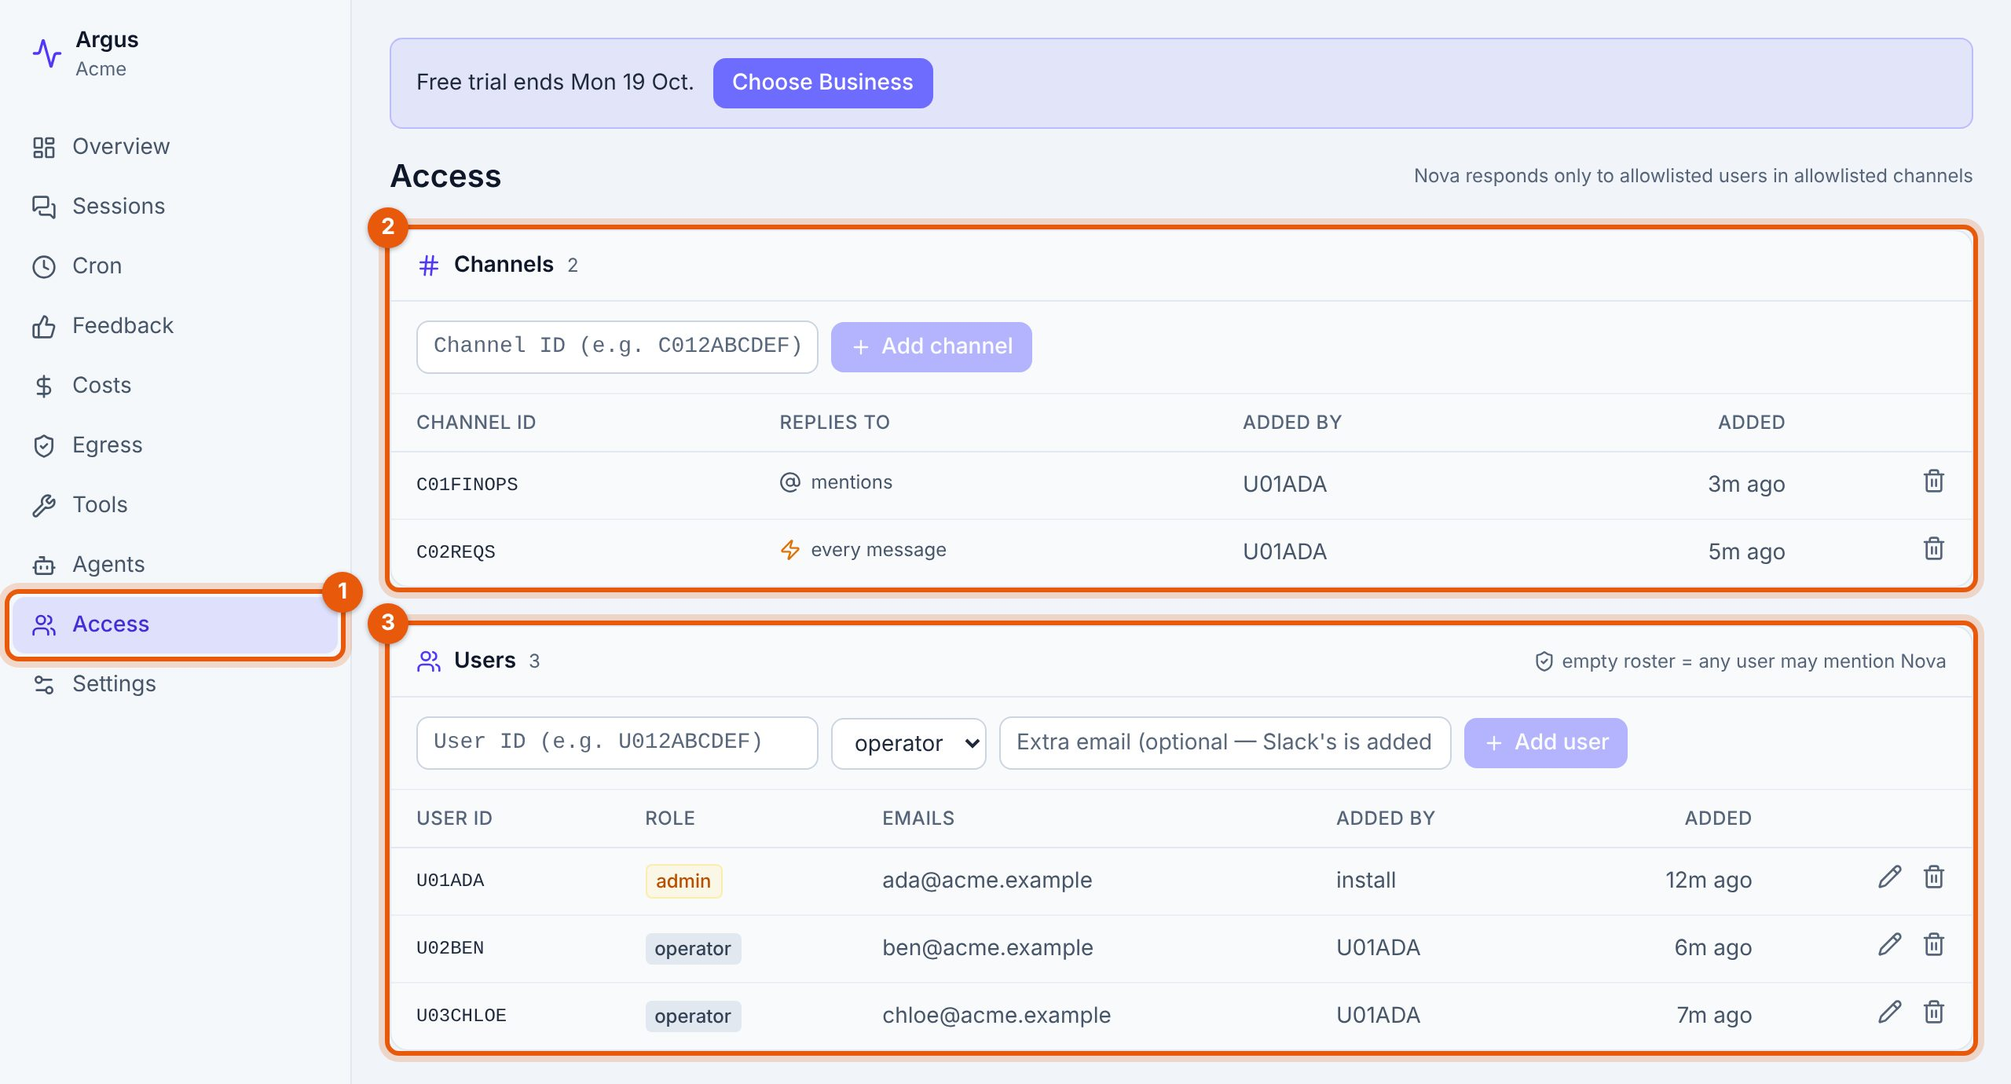
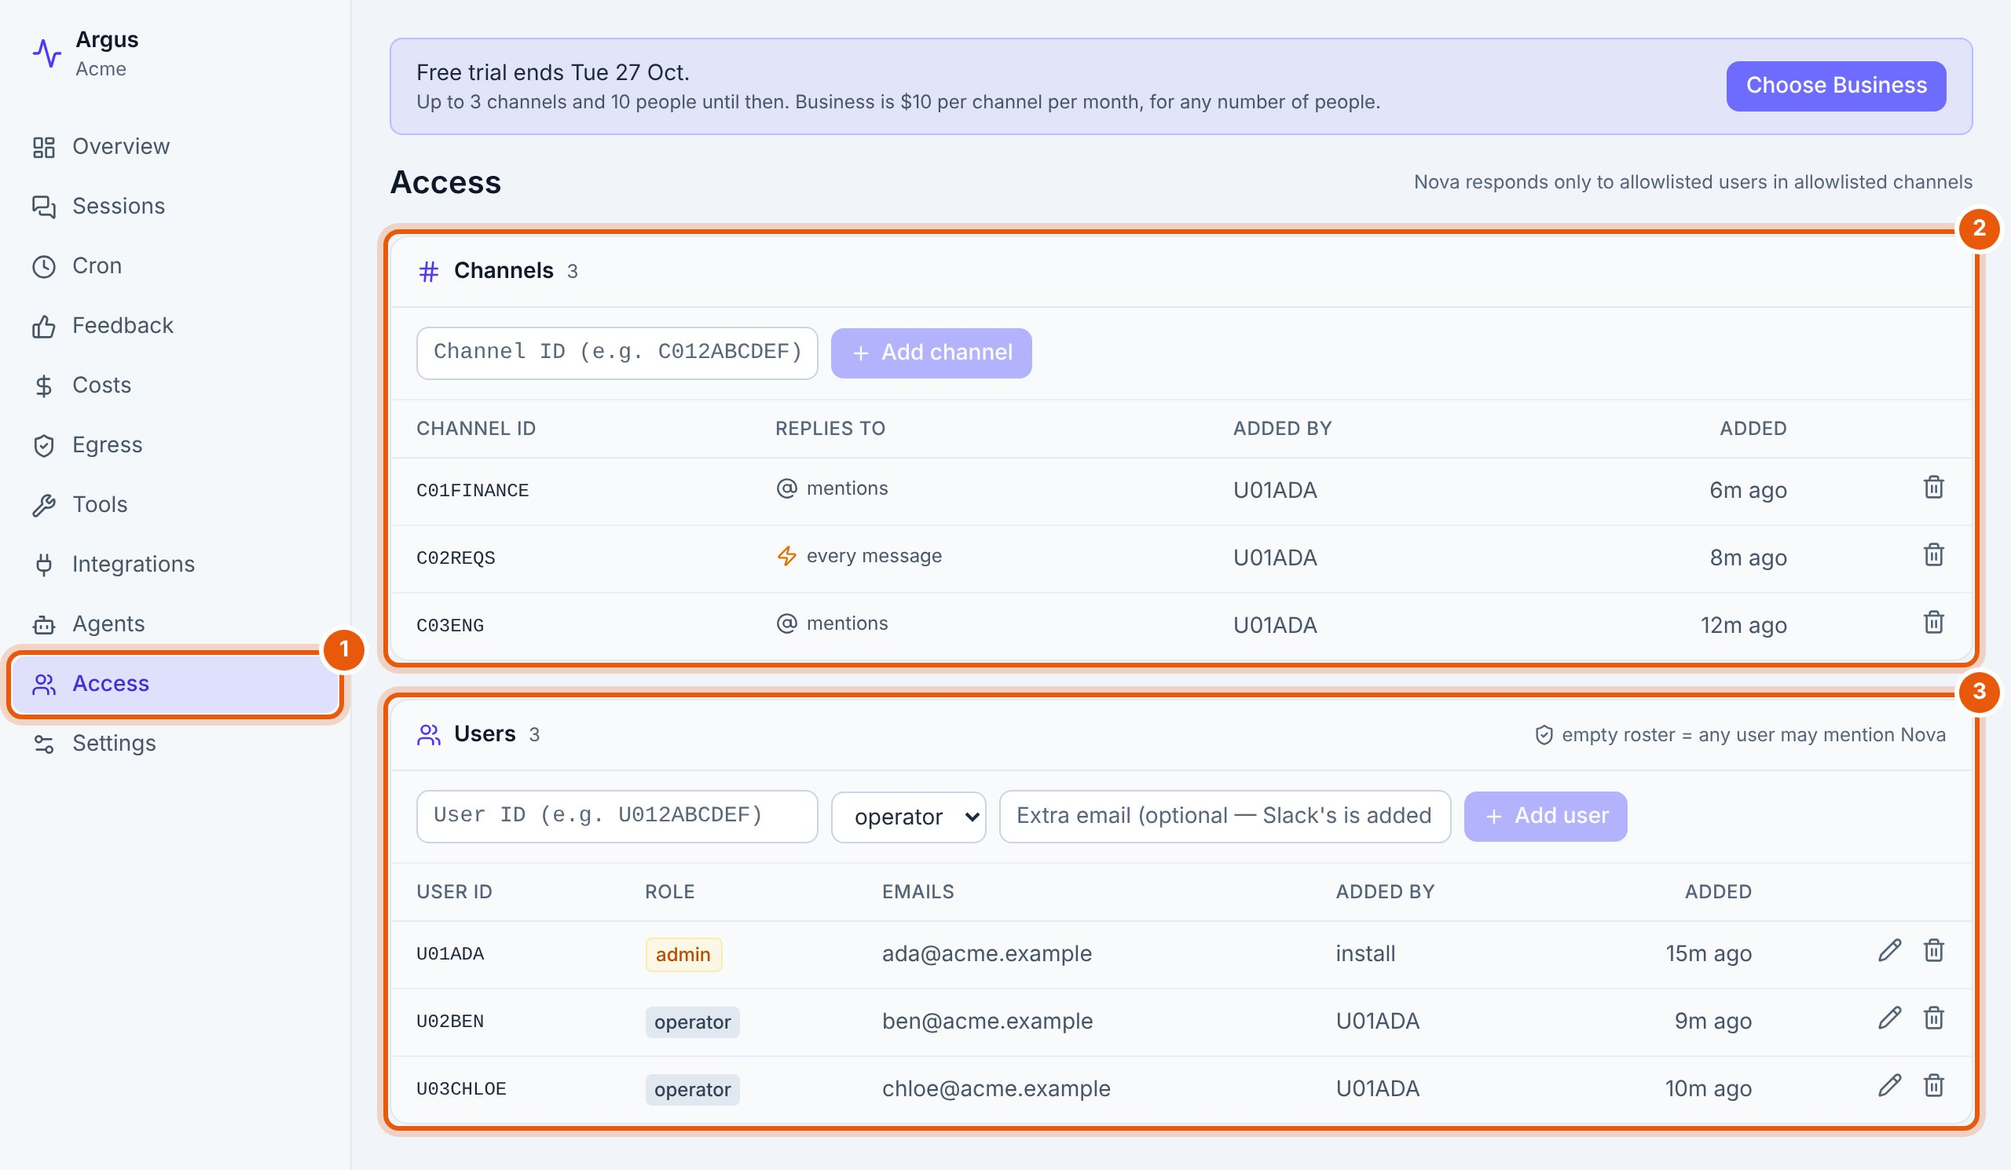
Publish site from nova-marketing@f79f33c

diff --git a/public/get-started.html b/public/get-started.html
@@ -96,6 +96,7 @@ figure.shot figcaption{font-size:13.5px;color:var(--ink-faint);margin-top:8px}
 .shots{display:grid;gap:14px;grid-template-columns:1fr;margin:4px 0 22px}
 @media(min-width:620px){.shots{grid-template-columns:1fr 1fr}}
 .shots figure.shot{margin:0}
+figure.shot.narrow{max-width:380px}
 @media(max-width:520px){.top .btn{padding:8px 12px;font-size:13.5px}}
 
 
@@ -189,6 +190,7 @@ footer.sitefoot{padding:56px 0 40px;background:var(--paper-2);border-top:1px sol
       <li><a href="#channel">Bring Nova into a channel</a></li>
       <li><a href="#people">Add your team</a></li>
       <li><a href="#first">Give her real work</a></li>
+      <li><a href="#drive">Connect Google Drive</a></li>
       <li><a href="#trial">Your free trial</a></li>
       <li><a href="#pay">Plans and paying</a></li>
       <li><a href="#cancel">Changing or cancelling</a></li>
@@ -207,14 +209,14 @@ footer.sitefoot{padding:56px 0 40px;background:var(--paper-2);border-top:1px sol
   <h2 id="install"><span class="n">02</span>Add Nova to Slack</h2>
   <p>Open <a href="https://control.mouline.co.uk/install">control.mouline.co.uk/install</a>, click <b>Add to Slack</b> and approve the permissions Slack shows you. Whoever completes the install becomes the workspace's first Nova admin. Enterprise Grid org-wide installs aren't supported; install into one workspace.</p>
   <div class="shots">
-  <figure class="shot"><a href="guide/install.jpg"><img src="guide/install.jpg" width="600" height="420" loading="lazy" alt="The install page: Add Nova to your Slack workspace, with an Add to Slack button."></a><figcaption>The install page. Click <b>Add to Slack</b> (1) and approve in Slack.</figcaption></figure>
-  <figure class="shot"><a href="guide/install-done.jpg"><img src="guide/install-done.jpg" width="600" height="480" loading="lazy" alt="After installing: Nova is installed in Acme, with the two steps left and a Sign in and finish setup button."></a><figcaption>Back from Slack. <b>Sign in and finish setup</b> (1) takes you to the next step.</figcaption></figure>
+  <figure class="shot"><a href="guide/install.jpg"><img src="guide/install.jpg" width="488" height="402" loading="lazy" alt="The install page: Add Nova to your Slack workspace, with an Add to Slack button."></a><figcaption>The install page. Click <b>Add to Slack</b> (1) and approve in Slack.</figcaption></figure>
+  <figure class="shot"><a href="guide/install-done.jpg"><img src="guide/install-done.jpg" width="488" height="586" loading="lazy" alt="After installing: Nova is installed in Acme, with the three steps left and a Sign in and finish setup button."></a><figcaption>Back from Slack. <b>Sign in and finish setup</b> (1) takes you to the next step.</figcaption></figure>
   </div>
 
   <h2 id="key"><span class="n">03</span>Add your Anthropic key</h2>
   <p>Sign in with Slack at <a href="https://control.mouline.co.uk/login?return=%2Fsettings">control.mouline.co.uk</a>. This is Nova's dashboard, and it shows only your workspace. Open <b>Settings</b>, paste your key under <b>Anthropic API key</b> and save.</p>
   <p>Until a key is saved, Nova answers every mention with a link to Settings and does no work.</p>
-  <figure class="shot"><a href="guide/settings-key.jpg"><img src="guide/settings-key.jpg" width="912" height="830" loading="lazy" alt="Nova's dashboard, Settings page: a Finish setup notice, and the Anthropic API key field being filled in under LLM credentials."></a><figcaption>Open <b>Settings</b> (1), paste your key into <b>Anthropic API key</b> (2) and click <b>Save settings</b> (3). The orange notice goes away once the key is saved.</figcaption></figure>
+  <figure class="shot"><a href="guide/settings-key.jpg"><img src="guide/settings-key.jpg" width="920" height="830" loading="lazy" alt="Nova's dashboard, Settings page: a Finish setup notice, and the Anthropic API key field being filled in under LLM credentials."></a><figcaption>Open <b>Settings</b> (1), paste your key into <b>Anthropic API key</b> (2) and click <b>Save settings</b> (3). The orange notice goes away once the key is saved.</figcaption></figure>
 
   <h2 id="channel"><span class="n">04</span>Bring Nova into a channel</h2>
   <p>In the Slack channel where you want Nova to work:</p>
@@ -227,13 +229,57 @@ footer.sitefoot{padding:56px 0 40px;background:var(--paper-2);border-top:1px sol
 
   <h2 id="people"><span class="n">05</span>Add your team</h2>
   <p>Nova only answers people you've allowed. Add someone with <code>/nova user add @name</code> in Slack, or on the dashboard's <b>Access</b> page. During the trial up to 10 people can use Nova, admins included. On Business, there's no limit.</p>
-  <figure class="shot"><a href="guide/access.jpg"><img src="guide/access.jpg" width="1280" height="690" loading="lazy" alt="The dashboard's Access page: two channels, one answering mentions and one every message, and three people, one admin and two operators."></a><figcaption><b>Access</b> (1) lists the channels Nova works in (2) and the people she answers (3). You can add and remove both here too.</figcaption></figure>
+  <figure class="shot"><a href="guide/access.jpg"><img src="guide/access.jpg" width="1280" height="745" loading="lazy" alt="The dashboard's Access page: three channels, two answering mentions and one every message, and three people, one admin and two operators."></a><figcaption><b>Access</b> (1) lists the channels Nova works in (2) and the people she answers (3). You can add and remove both here too.</figcaption></figure>
 
   <h2 id="first"><span class="n">06</span>Give her real work</h2>
   <p>Mention <code>@Nova</code> in a thread and ask for a task your team does every week. Each Slack thread is one ongoing conversation, so reply in the same thread to follow up or correct her. A person reviews anything consequential before it happens.</p>
-  <p>The dashboard shows what Nova did in each conversation and what it cost, and lets admins manage access, egress rules, scheduled jobs and settings.</p>
+  <p>The dashboard shows what Nova did in each conversation and what it cost, and lets admins manage access, integrations, egress rules, scheduled jobs and settings.</p>
 
-  <h2 id="trial"><span class="n">07</span>Your free trial</h2>
+  <h2 id="drive"><span class="n">07</span>Connect Google Drive</h2>
+  <p>Optional, and worth a few trial days. With Drive connected, Nova finds, reads and edits your Docs, Sheets and Slides, creates and copies files, organises folders, and shares files with people in your company. In Sheets she changes only the cells she means to, appends rows, adds tabs and formats them, without rewriting the rest. You decide, channel by channel, which shared drives she may use.</p>
+
+  <h3>Turn on the Shadow Broker</h3>
+  <p>Nova reaches Drive through a Shadow Broker, which holds the Google credentials so Nova never sees them. In <b>Settings</b>, under <b>Shadow Broker</b>, choose <b>Run by Mouline</b> and save. Mouline then runs a broker for your workspace alone. There's nothing to install and no key to copy.</p>
+  <figure class="shot"><a href="guide/broker.jpg"><img src="guide/broker.jpg" width="680" height="330" loading="lazy" alt="Settings, Shadow Broker section: the Broker list set to Run by Mouline, and the Save settings button."></a><figcaption>Choose <b>Run by Mouline</b> (1) and click <b>Save settings</b> (2).</figcaption></figure>
+
+  <h3>Connect your Google account</h3>
+  <p>Open <b>Integrations</b> and click <b>Connect Google Drive</b>. Google asks you to sign in and approve access; Nova then acts as that Google account, so she sees what it sees. You come back to the Google Drive page, where Nova can use all of Drive in every channel until you narrow it.</p>
+  <figure class="shot"><a href="guide/drive-connect.jpg"><img src="guide/drive-connect.jpg" width="1280" height="560" loading="lazy" alt="The Integrations page before connecting: a Google Drive card marked Not connected, with a Connect Google Drive button."></a><figcaption>Open <b>Integrations</b> (1) and click <b>Connect Google Drive</b> (2).</figcaption></figure>
+  <figure class="shot"><a href="guide/drive-connected.jpg"><img src="guide/drive-connected.jpg" width="930" height="350" loading="lazy" alt="Back from Google: Google Drive is connected, Working, and Nova can use All of Drive everywhere, with a Choose where button."></a><figcaption>Back from Google. <b>Choose where</b> (1) sets what Nova may use everywhere.</figcaption></figure>
+  <p>If you'd rather hand over a few folders only, open <a href="https://control.mouline.co.uk/integrations/google-drive">the Google Drive page</a> before connecting and click <b>Pick folders instead</b>. Nova then reaches just the folders you pick in Google's picker and the files she creates, everywhere. Channel rules need the whole-Drive connection.</p>
+
+  <h3>Choose where Nova can use Drive</h3>
+  <p>Drive access is set by rules, each written as a sentence on the Google Drive page:</p>
+  <ul>
+    <li><b>Everywhere</b> applies to every channel without a rule of its own: <b>All of Drive</b>, <b>Only some shared drives</b>, or <b>Nowhere</b>.</li>
+    <li>A <b>channel rule</b> covers one or more channels. Click <b>+ Add a rule for specific channels</b>, add the channels, and choose all of Drive or some shared drives. You can add a note for Nova too, such as where budgets live.</li>
+  </ul>
+  <p>The most specific rule wins: a channel's own rule <b>replaces</b> Everywhere there, so a channel can get less than Everywhere or more. If two rules name the same channel, Nova gets everything either one allows, and the page marks a rule that adds nothing as <b>Changes nothing</b>. Before you save, the rule shows what Nova will reach after saving.</p>
+  <p>For example, with Everywhere set to Only Company and a #finance rule for Finance and Company, Nova in #finance can use both drives and nothing else.</p>
+  <figure class="shot narrow"><a href="guide/drive-rule.jpg"><img src="guide/drive-rule.jpg" width="480" height="720" loading="lazy" alt="New channel rule: In #requests Nova can use Google Drive: Only some shared drives, with Sales ticked. After saving: In #requests Nova can reach Only Sales; this replaces Everywhere (Only Company)."></a><figcaption>A new rule: pick the channel (1), choose <b>Only some shared drives</b> and tick them (2), and check <b>After saving</b> (3) before you click <b>Save rule</b>.</figcaption></figure>
+
+  <h3>See who can reach what</h3>
+  <p>The Integrations page lists every channel with what Nova can reach there. Grey means the channel gets it from Everywhere; black means its own rule decides. Click a channel to see why, or click its Drive cell to change its rule.</p>
+  <figure class="shot"><a href="guide/drive-reach.jpg"><img src="guide/drive-reach.jpg" width="1050" height="610" loading="lazy" alt="Who can reach what: Everywhere gets Only Company; #engineering All of Drive, #finance Only Finance and Company, and #requests Only Sales, each replacing Everywhere."></a><figcaption>Everywhere is held to the Company drive (1). #engineering's own rule gives it more: all of Drive (2). The #requests rule from above gives it less: only Sales, not Company (3).</figcaption></figure>
+
+  <h3>Check it's working</h3>
+  <p>Drive has one status on both pages. <b>Working</b> means Nova can use it. <b>Needs attention</b> and <b>Not working</b> come with a banner saying what's wrong and, where the dashboard can fix it, a button. The <b>Health</b> list on the Google Drive page shows each check:</p>
+  <table>
+    <tr><th>Check</th><th>If it fails</th></tr>
+    <tr><td>Nova has loaded the connection</td><td>Nova picks changes up within a minute. If it stays, write to us. Meanwhile Nova tells people Drive is temporarily unavailable.</td></tr>
+    <tr><td>Network access to Google</td><td>Your egress policy doesn't allow all four Google hosts Drive needs. Click <b>Allow Google hosts</b>, or remove the deny rule under <b>Open network policy</b>.</td></tr>
+    <tr><td>Used in at least one channel</td><td>No rule gives Nova Drive anywhere. Click <b>Add a rule</b>, or set Everywhere.</td></tr>
+  </table>
+  <figure class="shot"><a href="guide/drive-health.jpg"><img src="guide/drive-health.jpg" width="930" height="748" loading="lazy" alt="Google Drive marked Needs attention: two Google hosts are not allowed. A banner offers Allow Google hosts, and the Health list shows which hosts are missing."></a><figcaption>Here two Google hosts aren't allowed. <b>Allow Google hosts</b> (1) fixes it; <b>Health</b> (2) shows each check, and <b>Details</b> lists the hosts.</figcaption></figure>
+
+  <h3>Sharing, reconnecting and disconnecting</h3>
+  <ul>
+    <li>Nova shares files only with people in your own Google Workspace domain, and refuses anyone outside it.</li>
+    <li><b>Reconnect</b> on the Google Drive page signs in to Google again, for example to use another account.</li>
+    <li><b>Disconnect</b> stops Nova using Drive in every channel at once. Your rules are kept. If Everywhere was set to Nowhere, it comes back as All of Drive when you reconnect, so set it again afterwards.</li>
+  </ul>
+
+  <h2 id="trial"><span class="n">08</span>Your free trial</h2>
   <p>Every new workspace gets a <b>7-day free trial</b>. It starts the first time Nova answers someone, not when you install, so setup doesn't use it up.</p>
   <ul>
     <li>Up to <b>3 channels</b> and <b>10 people</b> during the trial. Going over is refused with a message naming the limit; removing one frees a slot.</li>
@@ -244,16 +290,18 @@ footer.sitefoot{padding:56px 0 40px;background:var(--paper-2);border-top:1px sol
   <p>Trying more of Nova extends the trial, by up to 30 extra working days (Monday to Friday) in total. Each counts once:</p>
   <table>
     <tr><th>Do this</th><th>Earn</th></tr>
-    <tr><td>Save a Shadow Broker connection in Settings</td><td>+3 working days</td></tr>
+    <tr><td>Save a Shadow Broker connection in Settings, such as <a href="#drive">Run by Mouline</a></td><td>+3 working days</td></tr>
     <tr><td>Add your first egress allow rule on the dashboard</td><td>+3 working days</td></tr>
     <tr><td>Have your first scheduled job run successfully</td><td>+3 working days</td></tr>
+    <tr><td><a href="#drive">Connect Google Drive</a> in Integrations</td><td>+3 working days</td></tr>
+    <tr><td>Have Nova edit a Google Sheet for the first time</td><td>+2 working days</td></tr>
     <tr><td>Each new person who gets an answer from Nova</td><td>+2 working days</td></tr>
   </table>
   <p>The first person's answer starts the trial, so it doesn't earn days. Days earned before the trial starts still count.</p>
   <h3>When the trial ends</h3>
   <p>If you haven't chosen a plan, Nova pauses for everyone in the workspace. The Slack install and your data are kept for 30 days, and admins can still sign in to the dashboard. Choosing Business brings her back straight away. If you need more time, write to <a href="mailto:founders@mouline.work">founders@mouline.work</a>.</p>
 
-  <h2 id="pay"><span class="n">08</span>Plans and paying</h2>
+  <h2 id="pay"><span class="n">09</span>Plans and paying</h2>
   <table>
     <tr><th>Plan</th><th>Price</th><th>What you get</th></tr>
     <tr><td>Free trial</td><td>$0 for 7 days</td><td>3 channels, 10 people, plus any days you earn</td></tr>
@@ -267,10 +315,10 @@ footer.sitefoot{padding:56px 0 40px;background:var(--paper-2);border-top:1px sol
     <li>Click <b>Choose Business</b>. Stripe Checkout opens.</li>
     <li>Pick how many channels Nova can be in, agree to the <a href="terms.html">Terms</a>, and pay by card.</li>
   </ol>
-  <figure class="shot"><a href="guide/settings-trial.jpg"><img src="guide/settings-trial.jpg" width="1040" height="290" loading="lazy" alt="Settings during the trial: a banner with the trial end date and a Choose Business button, and the Plan and billing card showing Trial with a Choose Business button."></a><figcaption><b>Choose Business</b> (1) is on the trial banner and on the <b>Plan and billing</b> card in Settings. Either one opens Stripe Checkout.</figcaption></figure>
+  <figure class="shot"><a href="guide/settings-trial.jpg"><img src="guide/settings-trial.jpg" width="1050" height="365" loading="lazy" alt="Settings during the trial: a banner with the trial end date and a Choose Business button, and the Plan and billing card showing Trial with a Choose Business button."></a><figcaption><b>Choose Business</b> (1) is on the trial banner and on the <b>Plan and billing</b> card in Settings. Either one opens Stripe Checkout.</figcaption></figure>
   <p>You can pay at any time during the trial. The first month is charged at once, the trial ends, and the trial limits lift straight away. Settings then shows your plan and number of channels.</p>
 
-  <h2 id="cancel"><span class="n">09</span>Changing or cancelling</h2>
+  <h2 id="cancel"><span class="n">10</span>Changing or cancelling</h2>
   <p>In Settings, <b>Manage billing</b> opens Stripe's billing portal. There you can:</p>
   <ul>
     <li><b>Add channels.</b> Takes effect at once, charged pro rata for the rest of the month.</li>
@@ -278,10 +326,10 @@ footer.sitefoot{padding:56px 0 40px;background:var(--paper-2);border-top:1px sol
     <li><b>Update your card</b> and download invoices.</li>
     <li><b>Cancel.</b> Nova keeps working until the end of the month you paid for.</li>
   </ul>
-  <figure class="shot"><a href="guide/settings-business.jpg"><img src="guide/settings-business.jpg" width="1040" height="290" loading="lazy" alt="Settings on the Business plan: the Plan and billing card shows Business, 5 channels, with a Manage billing button."></a><figcaption>Once you pay, <b>Plan and billing</b> shows your plan and number of channels. <b>Manage billing</b> (1) opens Stripe.</figcaption></figure>
+  <figure class="shot"><a href="guide/settings-business.jpg"><img src="guide/settings-business.jpg" width="1050" height="330" loading="lazy" alt="Settings on the Business plan: the Plan and billing card shows Business, 5 channels, with a Manage billing button."></a><figcaption>Once you pay, <b>Plan and billing</b> shows your plan and number of channels. <b>Manage billing</b> (1) opens Stripe.</figcaption></figure>
   <p>We don't refund part months; see the <a href="refund.html">refund policy</a>. If a payment fails, Nova pauses and comes back as soon as the payment goes through.</p>
 
-  <h2 id="messages"><span class="n">10</span>If Nova won't answer</h2>
+  <h2 id="messages"><span class="n">11</span>If Nova won't answer</h2>
   <p>Nova always says why. The message tells you what to do:</p>
   <table>
     <tr><th>Nova says</th><th>What to do</th></tr>
@@ -291,9 +339,11 @@ footer.sitefoot{padding:56px 0 40px;background:var(--paper-2);border-top:1px sol
     <tr><td>A trial limit was reached</td><td>Remove a channel or person, or <a href="#pay">choose Business</a> to lift the limits.</td></tr>
     <tr><td>Trial has ended</td><td>An admin <a href="#pay">chooses Business</a> in Settings.</td></tr>
     <tr><td>Nova is paused because this workspace's subscription isn't active</td><td>An admin updates the card under <b>Manage billing</b>.</td></tr>
+    <tr><td>Drive is connected but temporarily unavailable</td><td>Open <b>Integrations</b> → <b>Google Drive</b> and follow the banner. See <a href="#drive">Check it's working</a>.</td></tr>
+    <tr><td>Nova says she has no Drive in this channel</td><td>No rule gives her Drive there. An admin adds a <a href="#drive">channel rule</a> or sets Everywhere.</td></tr>
   </table>
 
-  <h2 id="faq"><span class="n">11</span>Questions</h2>
+  <h2 id="faq"><span class="n">12</span>Questions</h2>
   <details>
     <summary>What does Nova cost in total?</summary>
     <p>Your plan, plus what Anthropic charges for the usage on your own key. Mouline doesn't mark it up.</p>
@@ -309,6 +359,10 @@ footer.sitefoot{padding:56px 0 40px;background:var(--paper-2);border-top:1px sol
   <details>
     <summary>Where does my data live?</summary>
     <p>On Business, Mouline hosts Nova for you, and each workspace gets its own database and its own Nova. On Enterprise, Nova runs in your own network. See the <a href="privacy.html">Privacy Policy</a>.</p>
+  </details>
+  <details>
+    <summary>Can Nova see all of our Google Drive?</summary>
+    <p>Only what the Google account you connected can see, narrowed by your rules: Everywhere, and any channel's own rule. The Google credentials stay in your Shadow Broker, and Nova never holds them. She shares files only inside your company's Google domain.</p>
   </details>
   <details>
     <summary>How do I remove Nova?</summary>
